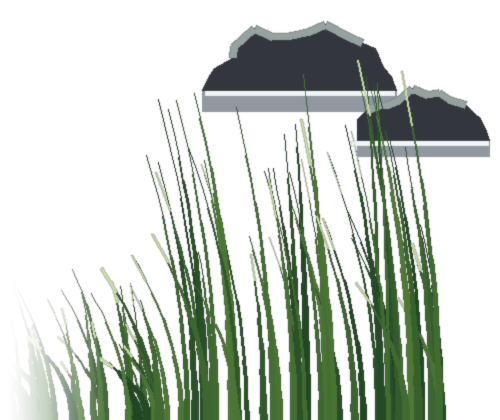
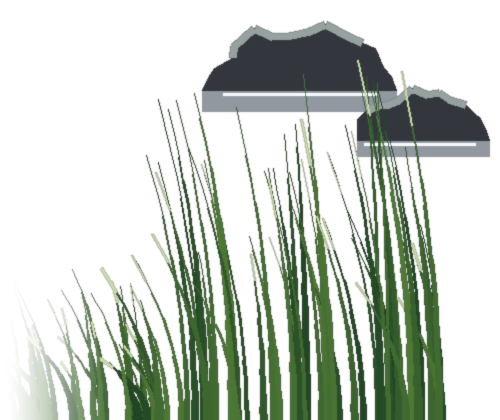
Cenários: espuma das pedras mais discreta
Claude-Session: https://claude.ai/code/session_0157wnQYKqcwH1tj2jbojgJL

Changed region(s): [[0.39, 0.2167, 0.81, 0.2476], [0.72, 0.3095, 0.99, 0.3714]]

diff --git a/tools/Arte/gerar_cenarios.py b/tools/Arte/gerar_cenarios.py
@@ -310,7 +310,7 @@ def foreground_corner(rng, side, dark, light, tip, lily, cattails=True):
         d.polygon([(x, ry + rh * 0.35) for x, _ in pts[::-1]] + pts, fill=(22, 36, 52, 120))
         d.polygon(pts, fill=(52, 54, 62, 255))
         d.line(pts[3:-4], fill=(170, 140, 118, 255) if lily else (150, 162, 160, 255), width=8)
-        d.line([(rx - rw * 1.05, ry + 3), (rx + rw * 1.05, ry + 3)], fill=(230, 238, 240, 150), width=5)
+        d.line([(rx - rw * 0.85, ry + 4), (rx + rw * 0.85, ry + 4)], fill=(230, 238, 240, 80), width=3)
     if lily:
         for _ in range(7):
             cx = rng.uniform(0.6, 4.6) * ppu
